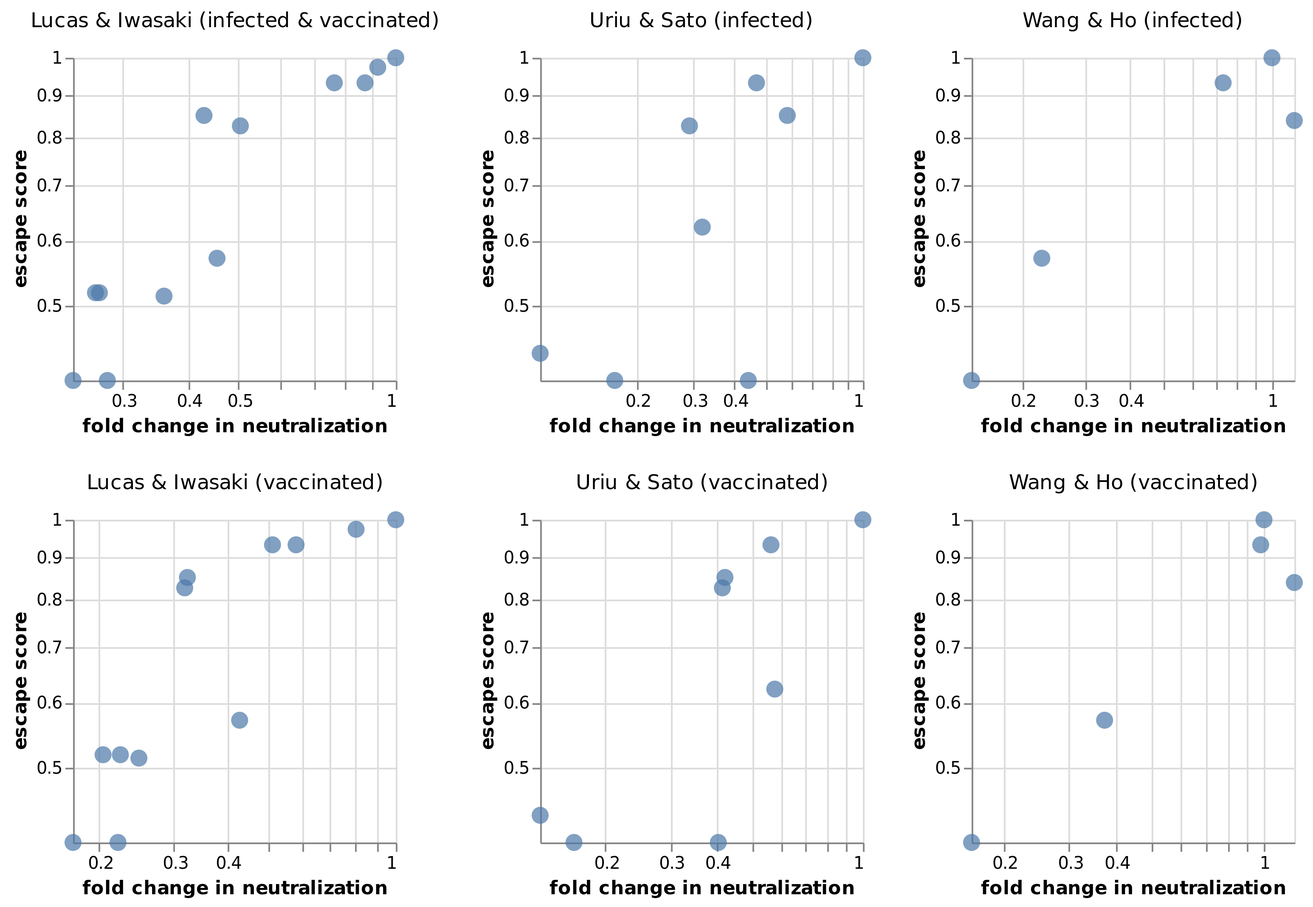
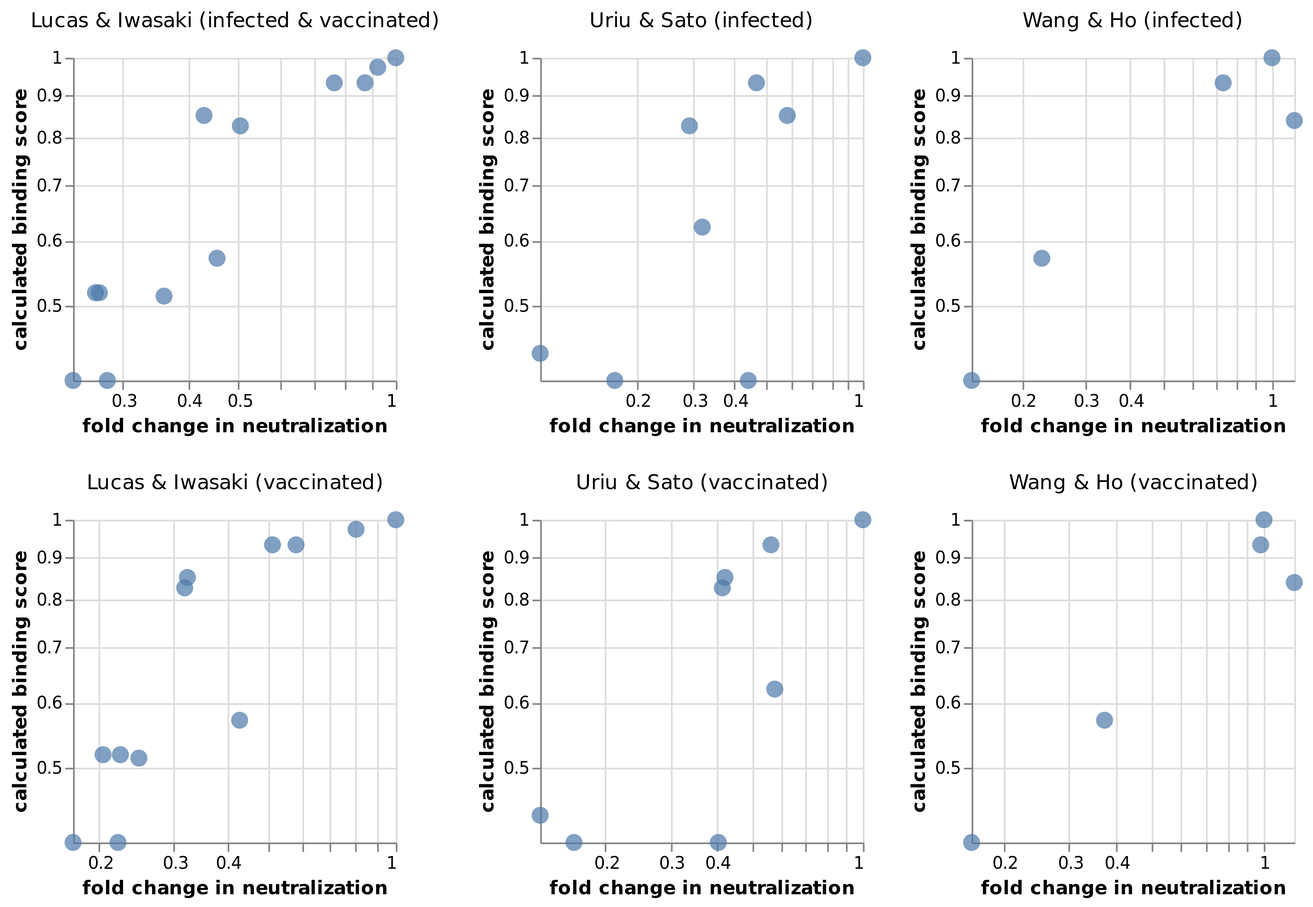
relabel to "calculated binding score"

diff --git a/results/neut_studies/neut_studies.html b/results/neut_studies/neut_studies.html
@@ -14,7 +14,7 @@
   <div id="vis"></div>
   <script>
     (function(vegaEmbed) {
-      var spec = {"config": {"view": {"continuousWidth": 400, "continuousHeight": 300}}, "data": {"name": "data-1481cc80569ba95ce21524a5e9327a6b"}, "mark": {"type": "point", "filled": true, "size": 100}, "encoding": {"facet": {"type": "nominal", "columns": 3, "field": "study_group", "header": {"labelFontSize": 12}, "sort": ["Lucas & Iwasaki (infected & vaccinated)", "Uriu & Sato (infected)", "Wang & Ho (infected)", "Lucas & Iwasaki (vaccinated)", "Uriu & Sato (vaccinated)", "Wang & Ho (vaccinated)"], "title": null}, "tooltip": [{"type": "nominal", "field": "RBD_mutations"}, {"type": "quantitative", "field": "fold_change", "format": ".2f"}, {"type": "quantitative", "field": "binding_score", "format": ".2f"}], "x": {"type": "quantitative", "axis": {"tickCount": 4}, "field": "fold_change", "scale": {"nice": false, "type": "log"}, "title": "fold change in neutralization"}, "y": {"type": "quantitative", "field": "binding_score", "scale": {"nice": false, "type": "log"}, "title": "escape score"}}, "height": 190, "resolve": {"scale": {"x": "independent", "y": "independent"}}, "width": 190, "$schema": "https://vega.github.io/schema/vega-lite/v4.8.1.json", "datasets": {"data-1481cc80569ba95ce21524a5e9327a6b": [{"study": "Lucas & Iwasaki", "group": "infected & vaccinated", "RBD_mutations": "", "n_samples": 14, "fold_change": 1.0, "sites": [], "group_first_word": "infected", "study_group": "Lucas & Iwasaki (infected & vaccinated)", "binding_score": 1.0}, {"study": "Lucas & Iwasaki", "group": "infected & vaccinated", "RBD_mutations": "E484K", "n_samples": 14, "fold_change": 0.4548633571561669, "sites": [484], "group_first_word": "infected", "study_group": "Lucas & Iwasaki (infected & vaccinated)", "binding_score": 0.5711044466018254}, {"study": "Lucas & Iwasaki", "group": "infected & vaccinated", "RBD_mutations": "E484K N501T", "n_samples": 14, "fold_change": 0.26620382149903893, "sites": [484, 501], "group_first_word": "infected", "study_group": "Lucas & Iwasaki (infected & vaccinated)", "binding_score": 0.5186239654488173}, {"study": "Lucas & Iwasaki", "group": "infected & vaccinated", "RBD_mutations": "E484K N501Y", "n_samples": 14, "fold_change": 0.27084092334440707, "sites": [484, 501], "group_first_word": "infected", "study_group": "Lucas & Iwasaki (infected & vaccinated)", "binding_score": 0.5186239654488173}, {"study": "Lucas & Iwasaki", "group": "infected & vaccinated", "RBD_mutations": "K417N E484K N501Y", "n_samples": 14, "fold_change": 0.2411491382404339, "sites": [417, 484, 501], "group_first_word": "infected", "study_group": "Lucas & Iwasaki (infected & vaccinated)", "binding_score": 0.40587052285326763}, {"study": "Lucas & Iwasaki", "group": "infected & vaccinated", "RBD_mutations": "K417T E484K N501Y", "n_samples": 14, "fold_change": 0.28049722652028164, "sites": [417, 484, 501], "group_first_word": "infected", "study_group": "Lucas & Iwasaki (infected & vaccinated)", "binding_score": 0.40587052285326763}, {"study": "Lucas & Iwasaki", "group": "infected & vaccinated", "RBD_mutations": "L452R", "n_samples": 14, "fold_change": 0.4294893320052524, "sites": [452], "group_first_word": "infected", "study_group": "Lucas & Iwasaki (infected & vaccinated)", "binding_score": 0.8510940945640929}, {"study": "Lucas & Iwasaki", "group": "infected & vaccinated", "RBD_mutations": "L452R E484Q", "n_samples": 14, "fold_change": 0.3601045190027156, "sites": [452, 484], "group_first_word": "infected", "study_group": "Lucas & Iwasaki (infected & vaccinated)", "binding_score": 0.5137603343784735}, {"study": "Lucas & Iwasaki", "group": "infected & vaccinated", "RBD_mutations": "L452R T478K", "n_samples": 14, "fold_change": 0.5041635322436606, "sites": [452, 478], "group_first_word": "infected", "study_group": "Lucas & Iwasaki (infected & vaccinated)", "binding_score": 0.8266777394809641}, {"study": "Lucas & Iwasaki", "group": "infected & vaccinated", "RBD_mutations": "N501T", "n_samples": 14, "fold_change": 0.7627059648388554, "sites": [501], "group_first_word": "infected", "study_group": "Lucas & Iwasaki (infected & vaccinated)", "binding_score": 0.932350824885985}, {"study": "Lucas & Iwasaki", "group": "infected & vaccinated", "RBD_mutations": "N501Y", "n_samples": 14, "fold_change": 0.8732585714589812, "sites": [501], "group_first_word": "infected", "study_group": "Lucas & Iwasaki (infected & vaccinated)", "binding_score": 0.932350824885985}, {"study": "Lucas & Iwasaki", "group": "infected & vaccinated", "RBD_mutations": "S477N", "n_samples": 14, "fold_change": 0.9236341884196304, "sites": [477], "group_first_word": "infected", "study_group": "Lucas & Iwasaki (infected & vaccinated)", "binding_score": 0.9737490038215707}, {"study": "Uriu & Sato", "group": "infected", "RBD_mutations": "", "n_samples": 13, "fold_change": 1.0, "sites": [], "group_first_word": "infected", "study_group": "Uriu & Sato (infected)", "binding_score": 1.0}, {"study": "Uriu & Sato", "group": "infected", "RBD_mutations": "K417N E484K N501Y", "n_samples": 13, "fold_change": 0.1714270736362724, "sites": [417, 484, 501], "group_first_word": "infected", "study_group": "Uriu & Sato (infected)", "binding_score": 0.40587052285326763}, {"study": "Uriu & Sato", "group": "infected", "RBD_mutations": "K417T E484K N501Y", "n_samples": 13, "fold_change": 0.4429494663524305, "sites": [417, 484, 501], "group_first_word": "infected", "study_group": "Uriu & Sato (infected)", "binding_score": 0.40587052285326763}, {"study": "Uriu & Sato", "group": "infected", "RBD_mutations": "L452Q F490S", "n_samples": 13, "fold_change": 0.31936945033078823, "sites": [452, 490], "group_first_word": "infected", "study_group": "Uriu & Sato (infected)", "binding_score": 0.6230022395760562}, {"study": "Uriu & Sato", "group": "infected", "RBD_mutations": "L452R", "n_samples": 13, "fold_change": 0.5843947692130965, "sites": [452], "group_first_word": "infected", "study_group": "Uriu & Sato (infected)", "binding_score": 0.8510940945640929}, {"study": "Uriu & Sato", "group": "infected", "RBD_mutations": "L452R T478K", "n_samples": 13, "fold_change": 0.29152625073313265, "sites": [452, 478], "group_first_word": "infected", "study_group": "Uriu & Sato (infected)", "binding_score": 0.8266777394809641}, {"study": "Uriu & Sato", "group": "infected", "RBD_mutations": "N501Y", "n_samples": 13, "fold_change": 0.4694329972562393, "sites": [501], "group_first_word": "infected", "study_group": "Uriu & Sato (infected)", "binding_score": 0.932350824885985}, {"study": "Uriu & Sato", "group": "infected", "RBD_mutations": "R346K E484K N501Y", "n_samples": 13, "fold_change": 0.10085759189694231, "sites": [346, 484, 501], "group_first_word": "infected", "study_group": "Uriu & Sato (infected)", "binding_score": 0.437855592501803}, {"study": "Wang & Ho", "group": "infected", "RBD_mutations": "", "n_samples": 20, "fold_change": 1.0, "sites": [], "group_first_word": "infected", "study_group": "Wang & Ho (infected)", "binding_score": 1.0}, {"study": "Wang & Ho", "group": "infected", "RBD_mutations": "E484K", "n_samples": 20, "fold_change": 0.22754875314255113, "sites": [484], "group_first_word": "infected", "study_group": "Wang & Ho (infected)", "binding_score": 0.5711044466018254}, {"study": "Wang & Ho", "group": "infected", "RBD_mutations": "K417N", "n_samples": 20, "fold_change": 1.1546806918490695, "sites": [417], "group_first_word": "infected", "study_group": "Wang & Ho (infected)", "binding_score": 0.8391455671936648}, {"study": "Wang & Ho", "group": "infected", "RBD_mutations": "K417N E484K N501Y", "n_samples": 20, "fold_change": 0.14485093824648754, "sites": [417, 484, 501], "group_first_word": "infected", "study_group": "Wang & Ho (infected)", "binding_score": 0.40587052285326763}, {"study": "Wang & Ho", "group": "infected", "RBD_mutations": "N501Y", "n_samples": 20, "fold_change": 0.7305853069035843, "sites": [501], "group_first_word": "infected", "study_group": "Wang & Ho (infected)", "binding_score": 0.932350824885985}, {"study": "Lucas & Iwasaki", "group": "vaccinated", "RBD_mutations": "", "n_samples": 16, "fold_change": 1.0, "sites": [], "group_first_word": "vaccinated", "study_group": "Lucas & Iwasaki (vaccinated)", "binding_score": 1.0}, {"study": "Lucas & Iwasaki", "group": "vaccinated", "RBD_mutations": "E484K", "n_samples": 16, "fold_change": 0.4287541466790583, "sites": [484], "group_first_word": "vaccinated", "study_group": "Lucas & Iwasaki (vaccinated)", "binding_score": 0.5711044466018254}, {"study": "Lucas & Iwasaki", "group": "vaccinated", "RBD_mutations": "E484K N501T", "n_samples": 16, "fold_change": 0.20439428571997986, "sites": [484, 501], "group_first_word": "vaccinated", "study_group": "Lucas & Iwasaki (vaccinated)", "binding_score": 0.5186239654488173}, {"study": "Lucas & Iwasaki", "group": "vaccinated", "RBD_mutations": "E484K N501Y", "n_samples": 16, "fold_change": 0.224517397789719, "sites": [484, 501], "group_first_word": "vaccinated", "study_group": "Lucas & Iwasaki (vaccinated)", "binding_score": 0.5186239654488173}, {"study": "Lucas & Iwasaki", "group": "vaccinated", "RBD_mutations": "K417N E484K N501Y", "n_samples": 16, "fold_change": 0.1736725775952108, "sites": [417, 484, 501], "group_first_word": "vaccinated", "study_group": "Lucas & Iwasaki (vaccinated)", "binding_score": 0.40587052285326763}, {"study": "Lucas & Iwasaki", "group": "vaccinated", "RBD_mutations": "K417T E484K N501Y", "n_samples": 16, "fold_change": 0.22162819017294777, "sites": [417, 484, 501], "group_first_word": "vaccinated", "study_group": "Lucas & Iwasaki (vaccinated)", "binding_score": 0.40587052285326763}, {"study": "Lucas & Iwasaki", "group": "vaccinated", "RBD_mutations": "L452R", "n_samples": 16, "fold_change": 0.32295784116067466, "sites": [452], "group_first_word": "vaccinated", "study_group": "Lucas & Iwasaki (vaccinated)", "binding_score": 0.8510940945640929}, {"study": "Lucas & Iwasaki", "group": "vaccinated", "RBD_mutations": "L452R E484Q", "n_samples": 16, "fold_change": 0.24824185049807337, "sites": [452, 484], "group_first_word": "vaccinated", "study_group": "Lucas & Iwasaki (vaccinated)", "binding_score": 0.5137603343784735}, {"study": "Lucas & Iwasaki", "group": "vaccinated", "RBD_mutations": "L452R T478K", "n_samples": 16, "fold_change": 0.31828230898649373, "sites": [452, 478], "group_first_word": "vaccinated", "study_group": "Lucas & Iwasaki (vaccinated)", "binding_score": 0.8266777394809641}, {"study": "Lucas & Iwasaki", "group": "vaccinated", "RBD_mutations": "N501T", "n_samples": 16, "fold_change": 0.5124187350092134, "sites": [501], "group_first_word": "vaccinated", "study_group": "Lucas & Iwasaki (vaccinated)", "binding_score": 0.932350824885985}, {"study": "Lucas & Iwasaki", "group": "vaccinated", "RBD_mutations": "N501Y", "n_samples": 16, "fold_change": 0.5822707846585061, "sites": [501], "group_first_word": "vaccinated", "study_group": "Lucas & Iwasaki (vaccinated)", "binding_score": 0.932350824885985}, {"study": "Lucas & Iwasaki", "group": "vaccinated", "RBD_mutations": "S477N", "n_samples": 16, "fold_change": 0.8063062013547279, "sites": [477], "group_first_word": "vaccinated", "study_group": "Lucas & Iwasaki (vaccinated)", "binding_score": 0.9737490038215707}, {"study": "Uriu & Sato", "group": "vaccinated", "RBD_mutations": "", "n_samples": 14, "fold_change": 1.0, "sites": [], "group_first_word": "vaccinated", "study_group": "Uriu & Sato (vaccinated)", "binding_score": 1.0}, {"study": "Uriu & Sato", "group": "vaccinated", "RBD_mutations": "K417N E484K N501Y", "n_samples": 14, "fold_change": 0.16449539049254566, "sites": [417, 484, 501], "group_first_word": "vaccinated", "study_group": "Uriu & Sato (vaccinated)", "binding_score": 0.40587052285326763}, {"study": "Uriu & Sato", "group": "vaccinated", "RBD_mutations": "K417T E484K N501Y", "n_samples": 14, "fold_change": 0.40523754844008375, "sites": [417, 484, 501], "group_first_word": "vaccinated", "study_group": "Uriu & Sato (vaccinated)", "binding_score": 0.40587052285326763}, {"study": "Uriu & Sato", "group": "vaccinated", "RBD_mutations": "L452Q F490S", "n_samples": 14, "fold_change": 0.5766973452387146, "sites": [452, 490], "group_first_word": "vaccinated", "study_group": "Uriu & Sato (vaccinated)", "binding_score": 0.6230022395760562}, {"study": "Uriu & Sato", "group": "vaccinated", "RBD_mutations": "L452R", "n_samples": 14, "fold_change": 0.42244904974166303, "sites": [452], "group_first_word": "vaccinated", "study_group": "Uriu & Sato (vaccinated)", "binding_score": 0.8510940945640929}, {"study": "Uriu & Sato", "group": "vaccinated", "RBD_mutations": "L452R T478K", "n_samples": 14, "fold_change": 0.4156452982168447, "sites": [452, 478], "group_first_word": "vaccinated", "study_group": "Uriu & Sato (vaccinated)", "binding_score": 0.8266777394809641}, {"study": "Uriu & Sato", "group": "vaccinated", "RBD_mutations": "N501Y", "n_samples": 14, "fold_change": 0.5631428490641058, "sites": [501], "group_first_word": "vaccinated", "study_group": "Uriu & Sato (vaccinated)", "binding_score": 0.932350824885985}, {"study": "Uriu & Sato", "group": "vaccinated", "RBD_mutations": "R346K E484K N501Y", "n_samples": 14, "fold_change": 0.1331424136479114, "sites": [346, 484, 501], "group_first_word": "vaccinated", "study_group": "Uriu & Sato (vaccinated)", "binding_score": 0.437855592501803}, {"study": "Wang & Ho", "group": "vaccinated", "RBD_mutations": "", "n_samples": 20, "fold_change": 1.0, "sites": [], "group_first_word": "vaccinated", "study_group": "Wang & Ho (vaccinated)", "binding_score": 1.0}, {"study": "Wang & Ho", "group": "vaccinated", "RBD_mutations": "E484K", "n_samples": 20, "fold_change": 0.37363140400071243, "sites": [484], "group_first_word": "vaccinated", "study_group": "Wang & Ho (vaccinated)", "binding_score": 0.5711044466018254}, {"study": "Wang & Ho", "group": "vaccinated", "RBD_mutations": "K417N", "n_samples": 20, "fold_change": 1.205903407091004, "sites": [417], "group_first_word": "vaccinated", "study_group": "Wang & Ho (vaccinated)", "binding_score": 0.8391455671936648}, {"study": "Wang & Ho", "group": "vaccinated", "RBD_mutations": "K417N E484K N501Y", "n_samples": 20, "fold_change": 0.16433703774628375, "sites": [417, 484, 501], "group_first_word": "vaccinated", "study_group": "Wang & Ho (vaccinated)", "binding_score": 0.40587052285326763}, {"study": "Wang & Ho", "group": "vaccinated", "RBD_mutations": "N501Y", "n_samples": 20, "fold_change": 0.9799509317677993, "sites": [501], "group_first_word": "vaccinated", "study_group": "Wang & Ho (vaccinated)", "binding_score": 0.932350824885985}]}};
+      var spec = {"config": {"view": {"continuousWidth": 400, "continuousHeight": 300}}, "data": {"name": "data-1481cc80569ba95ce21524a5e9327a6b"}, "mark": {"type": "point", "filled": true, "size": 100}, "encoding": {"facet": {"type": "nominal", "columns": 3, "field": "study_group", "header": {"labelFontSize": 12}, "sort": ["Lucas & Iwasaki (infected & vaccinated)", "Uriu & Sato (infected)", "Wang & Ho (infected)", "Lucas & Iwasaki (vaccinated)", "Uriu & Sato (vaccinated)", "Wang & Ho (vaccinated)"], "title": null}, "tooltip": [{"type": "nominal", "field": "RBD_mutations"}, {"type": "quantitative", "field": "fold_change", "format": ".2f"}, {"type": "quantitative", "field": "binding_score", "format": ".2f"}], "x": {"type": "quantitative", "axis": {"tickCount": 4}, "field": "fold_change", "scale": {"nice": false, "type": "log"}, "title": "fold change in neutralization"}, "y": {"type": "quantitative", "field": "binding_score", "scale": {"nice": false, "type": "log"}, "title": "calculated binding score"}}, "height": 190, "resolve": {"scale": {"x": "independent", "y": "independent"}}, "width": 190, "$schema": "https://vega.github.io/schema/vega-lite/v4.8.1.json", "datasets": {"data-1481cc80569ba95ce21524a5e9327a6b": [{"study": "Lucas & Iwasaki", "group": "infected & vaccinated", "RBD_mutations": "", "n_samples": 14, "fold_change": 1.0, "sites": [], "group_first_word": "infected", "study_group": "Lucas & Iwasaki (infected & vaccinated)", "binding_score": 1.0}, {"study": "Lucas & Iwasaki", "group": "infected & vaccinated", "RBD_mutations": "E484K", "n_samples": 14, "fold_change": 0.4548633571561669, "sites": [484], "group_first_word": "infected", "study_group": "Lucas & Iwasaki (infected & vaccinated)", "binding_score": 0.5711044466018254}, {"study": "Lucas & Iwasaki", "group": "infected & vaccinated", "RBD_mutations": "E484K N501T", "n_samples": 14, "fold_change": 0.26620382149903893, "sites": [484, 501], "group_first_word": "infected", "study_group": "Lucas & Iwasaki (infected & vaccinated)", "binding_score": 0.5186239654488173}, {"study": "Lucas & Iwasaki", "group": "infected & vaccinated", "RBD_mutations": "E484K N501Y", "n_samples": 14, "fold_change": 0.27084092334440707, "sites": [484, 501], "group_first_word": "infected", "study_group": "Lucas & Iwasaki (infected & vaccinated)", "binding_score": 0.5186239654488173}, {"study": "Lucas & Iwasaki", "group": "infected & vaccinated", "RBD_mutations": "K417N E484K N501Y", "n_samples": 14, "fold_change": 0.2411491382404339, "sites": [417, 484, 501], "group_first_word": "infected", "study_group": "Lucas & Iwasaki (infected & vaccinated)", "binding_score": 0.40587052285326763}, {"study": "Lucas & Iwasaki", "group": "infected & vaccinated", "RBD_mutations": "K417T E484K N501Y", "n_samples": 14, "fold_change": 0.28049722652028164, "sites": [417, 484, 501], "group_first_word": "infected", "study_group": "Lucas & Iwasaki (infected & vaccinated)", "binding_score": 0.40587052285326763}, {"study": "Lucas & Iwasaki", "group": "infected & vaccinated", "RBD_mutations": "L452R", "n_samples": 14, "fold_change": 0.4294893320052524, "sites": [452], "group_first_word": "infected", "study_group": "Lucas & Iwasaki (infected & vaccinated)", "binding_score": 0.8510940945640929}, {"study": "Lucas & Iwasaki", "group": "infected & vaccinated", "RBD_mutations": "L452R E484Q", "n_samples": 14, "fold_change": 0.3601045190027156, "sites": [452, 484], "group_first_word": "infected", "study_group": "Lucas & Iwasaki (infected & vaccinated)", "binding_score": 0.5137603343784735}, {"study": "Lucas & Iwasaki", "group": "infected & vaccinated", "RBD_mutations": "L452R T478K", "n_samples": 14, "fold_change": 0.5041635322436606, "sites": [452, 478], "group_first_word": "infected", "study_group": "Lucas & Iwasaki (infected & vaccinated)", "binding_score": 0.8266777394809641}, {"study": "Lucas & Iwasaki", "group": "infected & vaccinated", "RBD_mutations": "N501T", "n_samples": 14, "fold_change": 0.7627059648388554, "sites": [501], "group_first_word": "infected", "study_group": "Lucas & Iwasaki (infected & vaccinated)", "binding_score": 0.932350824885985}, {"study": "Lucas & Iwasaki", "group": "infected & vaccinated", "RBD_mutations": "N501Y", "n_samples": 14, "fold_change": 0.8732585714589812, "sites": [501], "group_first_word": "infected", "study_group": "Lucas & Iwasaki (infected & vaccinated)", "binding_score": 0.932350824885985}, {"study": "Lucas & Iwasaki", "group": "infected & vaccinated", "RBD_mutations": "S477N", "n_samples": 14, "fold_change": 0.9236341884196304, "sites": [477], "group_first_word": "infected", "study_group": "Lucas & Iwasaki (infected & vaccinated)", "binding_score": 0.9737490038215707}, {"study": "Uriu & Sato", "group": "infected", "RBD_mutations": "", "n_samples": 13, "fold_change": 1.0, "sites": [], "group_first_word": "infected", "study_group": "Uriu & Sato (infected)", "binding_score": 1.0}, {"study": "Uriu & Sato", "group": "infected", "RBD_mutations": "K417N E484K N501Y", "n_samples": 13, "fold_change": 0.1714270736362724, "sites": [417, 484, 501], "group_first_word": "infected", "study_group": "Uriu & Sato (infected)", "binding_score": 0.40587052285326763}, {"study": "Uriu & Sato", "group": "infected", "RBD_mutations": "K417T E484K N501Y", "n_samples": 13, "fold_change": 0.4429494663524305, "sites": [417, 484, 501], "group_first_word": "infected", "study_group": "Uriu & Sato (infected)", "binding_score": 0.40587052285326763}, {"study": "Uriu & Sato", "group": "infected", "RBD_mutations": "L452Q F490S", "n_samples": 13, "fold_change": 0.31936945033078823, "sites": [452, 490], "group_first_word": "infected", "study_group": "Uriu & Sato (infected)", "binding_score": 0.6230022395760562}, {"study": "Uriu & Sato", "group": "infected", "RBD_mutations": "L452R", "n_samples": 13, "fold_change": 0.5843947692130965, "sites": [452], "group_first_word": "infected", "study_group": "Uriu & Sato (infected)", "binding_score": 0.8510940945640929}, {"study": "Uriu & Sato", "group": "infected", "RBD_mutations": "L452R T478K", "n_samples": 13, "fold_change": 0.29152625073313265, "sites": [452, 478], "group_first_word": "infected", "study_group": "Uriu & Sato (infected)", "binding_score": 0.8266777394809641}, {"study": "Uriu & Sato", "group": "infected", "RBD_mutations": "N501Y", "n_samples": 13, "fold_change": 0.4694329972562393, "sites": [501], "group_first_word": "infected", "study_group": "Uriu & Sato (infected)", "binding_score": 0.932350824885985}, {"study": "Uriu & Sato", "group": "infected", "RBD_mutations": "R346K E484K N501Y", "n_samples": 13, "fold_change": 0.10085759189694231, "sites": [346, 484, 501], "group_first_word": "infected", "study_group": "Uriu & Sato (infected)", "binding_score": 0.437855592501803}, {"study": "Wang & Ho", "group": "infected", "RBD_mutations": "", "n_samples": 20, "fold_change": 1.0, "sites": [], "group_first_word": "infected", "study_group": "Wang & Ho (infected)", "binding_score": 1.0}, {"study": "Wang & Ho", "group": "infected", "RBD_mutations": "E484K", "n_samples": 20, "fold_change": 0.22754875314255113, "sites": [484], "group_first_word": "infected", "study_group": "Wang & Ho (infected)", "binding_score": 0.5711044466018254}, {"study": "Wang & Ho", "group": "infected", "RBD_mutations": "K417N", "n_samples": 20, "fold_change": 1.1546806918490695, "sites": [417], "group_first_word": "infected", "study_group": "Wang & Ho (infected)", "binding_score": 0.8391455671936648}, {"study": "Wang & Ho", "group": "infected", "RBD_mutations": "K417N E484K N501Y", "n_samples": 20, "fold_change": 0.14485093824648754, "sites": [417, 484, 501], "group_first_word": "infected", "study_group": "Wang & Ho (infected)", "binding_score": 0.40587052285326763}, {"study": "Wang & Ho", "group": "infected", "RBD_mutations": "N501Y", "n_samples": 20, "fold_change": 0.7305853069035843, "sites": [501], "group_first_word": "infected", "study_group": "Wang & Ho (infected)", "binding_score": 0.932350824885985}, {"study": "Lucas & Iwasaki", "group": "vaccinated", "RBD_mutations": "", "n_samples": 16, "fold_change": 1.0, "sites": [], "group_first_word": "vaccinated", "study_group": "Lucas & Iwasaki (vaccinated)", "binding_score": 1.0}, {"study": "Lucas & Iwasaki", "group": "vaccinated", "RBD_mutations": "E484K", "n_samples": 16, "fold_change": 0.4287541466790583, "sites": [484], "group_first_word": "vaccinated", "study_group": "Lucas & Iwasaki (vaccinated)", "binding_score": 0.5711044466018254}, {"study": "Lucas & Iwasaki", "group": "vaccinated", "RBD_mutations": "E484K N501T", "n_samples": 16, "fold_change": 0.20439428571997986, "sites": [484, 501], "group_first_word": "vaccinated", "study_group": "Lucas & Iwasaki (vaccinated)", "binding_score": 0.5186239654488173}, {"study": "Lucas & Iwasaki", "group": "vaccinated", "RBD_mutations": "E484K N501Y", "n_samples": 16, "fold_change": 0.224517397789719, "sites": [484, 501], "group_first_word": "vaccinated", "study_group": "Lucas & Iwasaki (vaccinated)", "binding_score": 0.5186239654488173}, {"study": "Lucas & Iwasaki", "group": "vaccinated", "RBD_mutations": "K417N E484K N501Y", "n_samples": 16, "fold_change": 0.1736725775952108, "sites": [417, 484, 501], "group_first_word": "vaccinated", "study_group": "Lucas & Iwasaki (vaccinated)", "binding_score": 0.40587052285326763}, {"study": "Lucas & Iwasaki", "group": "vaccinated", "RBD_mutations": "K417T E484K N501Y", "n_samples": 16, "fold_change": 0.22162819017294777, "sites": [417, 484, 501], "group_first_word": "vaccinated", "study_group": "Lucas & Iwasaki (vaccinated)", "binding_score": 0.40587052285326763}, {"study": "Lucas & Iwasaki", "group": "vaccinated", "RBD_mutations": "L452R", "n_samples": 16, "fold_change": 0.32295784116067466, "sites": [452], "group_first_word": "vaccinated", "study_group": "Lucas & Iwasaki (vaccinated)", "binding_score": 0.8510940945640929}, {"study": "Lucas & Iwasaki", "group": "vaccinated", "RBD_mutations": "L452R E484Q", "n_samples": 16, "fold_change": 0.24824185049807337, "sites": [452, 484], "group_first_word": "vaccinated", "study_group": "Lucas & Iwasaki (vaccinated)", "binding_score": 0.5137603343784735}, {"study": "Lucas & Iwasaki", "group": "vaccinated", "RBD_mutations": "L452R T478K", "n_samples": 16, "fold_change": 0.31828230898649373, "sites": [452, 478], "group_first_word": "vaccinated", "study_group": "Lucas & Iwasaki (vaccinated)", "binding_score": 0.8266777394809641}, {"study": "Lucas & Iwasaki", "group": "vaccinated", "RBD_mutations": "N501T", "n_samples": 16, "fold_change": 0.5124187350092134, "sites": [501], "group_first_word": "vaccinated", "study_group": "Lucas & Iwasaki (vaccinated)", "binding_score": 0.932350824885985}, {"study": "Lucas & Iwasaki", "group": "vaccinated", "RBD_mutations": "N501Y", "n_samples": 16, "fold_change": 0.5822707846585061, "sites": [501], "group_first_word": "vaccinated", "study_group": "Lucas & Iwasaki (vaccinated)", "binding_score": 0.932350824885985}, {"study": "Lucas & Iwasaki", "group": "vaccinated", "RBD_mutations": "S477N", "n_samples": 16, "fold_change": 0.8063062013547279, "sites": [477], "group_first_word": "vaccinated", "study_group": "Lucas & Iwasaki (vaccinated)", "binding_score": 0.9737490038215707}, {"study": "Uriu & Sato", "group": "vaccinated", "RBD_mutations": "", "n_samples": 14, "fold_change": 1.0, "sites": [], "group_first_word": "vaccinated", "study_group": "Uriu & Sato (vaccinated)", "binding_score": 1.0}, {"study": "Uriu & Sato", "group": "vaccinated", "RBD_mutations": "K417N E484K N501Y", "n_samples": 14, "fold_change": 0.16449539049254566, "sites": [417, 484, 501], "group_first_word": "vaccinated", "study_group": "Uriu & Sato (vaccinated)", "binding_score": 0.40587052285326763}, {"study": "Uriu & Sato", "group": "vaccinated", "RBD_mutations": "K417T E484K N501Y", "n_samples": 14, "fold_change": 0.40523754844008375, "sites": [417, 484, 501], "group_first_word": "vaccinated", "study_group": "Uriu & Sato (vaccinated)", "binding_score": 0.40587052285326763}, {"study": "Uriu & Sato", "group": "vaccinated", "RBD_mutations": "L452Q F490S", "n_samples": 14, "fold_change": 0.5766973452387146, "sites": [452, 490], "group_first_word": "vaccinated", "study_group": "Uriu & Sato (vaccinated)", "binding_score": 0.6230022395760562}, {"study": "Uriu & Sato", "group": "vaccinated", "RBD_mutations": "L452R", "n_samples": 14, "fold_change": 0.42244904974166303, "sites": [452], "group_first_word": "vaccinated", "study_group": "Uriu & Sato (vaccinated)", "binding_score": 0.8510940945640929}, {"study": "Uriu & Sato", "group": "vaccinated", "RBD_mutations": "L452R T478K", "n_samples": 14, "fold_change": 0.4156452982168447, "sites": [452, 478], "group_first_word": "vaccinated", "study_group": "Uriu & Sato (vaccinated)", "binding_score": 0.8266777394809641}, {"study": "Uriu & Sato", "group": "vaccinated", "RBD_mutations": "N501Y", "n_samples": 14, "fold_change": 0.5631428490641058, "sites": [501], "group_first_word": "vaccinated", "study_group": "Uriu & Sato (vaccinated)", "binding_score": 0.932350824885985}, {"study": "Uriu & Sato", "group": "vaccinated", "RBD_mutations": "R346K E484K N501Y", "n_samples": 14, "fold_change": 0.1331424136479114, "sites": [346, 484, 501], "group_first_word": "vaccinated", "study_group": "Uriu & Sato (vaccinated)", "binding_score": 0.437855592501803}, {"study": "Wang & Ho", "group": "vaccinated", "RBD_mutations": "", "n_samples": 20, "fold_change": 1.0, "sites": [], "group_first_word": "vaccinated", "study_group": "Wang & Ho (vaccinated)", "binding_score": 1.0}, {"study": "Wang & Ho", "group": "vaccinated", "RBD_mutations": "E484K", "n_samples": 20, "fold_change": 0.37363140400071243, "sites": [484], "group_first_word": "vaccinated", "study_group": "Wang & Ho (vaccinated)", "binding_score": 0.5711044466018254}, {"study": "Wang & Ho", "group": "vaccinated", "RBD_mutations": "K417N", "n_samples": 20, "fold_change": 1.205903407091004, "sites": [417], "group_first_word": "vaccinated", "study_group": "Wang & Ho (vaccinated)", "binding_score": 0.8391455671936648}, {"study": "Wang & Ho", "group": "vaccinated", "RBD_mutations": "K417N E484K N501Y", "n_samples": 20, "fold_change": 0.16433703774628375, "sites": [417, 484, 501], "group_first_word": "vaccinated", "study_group": "Wang & Ho (vaccinated)", "binding_score": 0.40587052285326763}, {"study": "Wang & Ho", "group": "vaccinated", "RBD_mutations": "N501Y", "n_samples": 20, "fold_change": 0.9799509317677993, "sites": [501], "group_first_word": "vaccinated", "study_group": "Wang & Ho (vaccinated)", "binding_score": 0.932350824885985}]}};
       var embedOpt = {"mode": "vega-lite"};
 
       function showError(el, error){

diff --git a/results/variants/variants.html b/results/variants/variants.html
@@ -14,7 +14,7 @@
   <div id="vis"></div>
   <script>
     (function(vegaEmbed) {
-      var spec = {"config": {"view": {"continuousWidth": 400, "continuousHeight": 300}}, "data": {"name": "data-387f3da8f753e3933b4195b69e043e67"}, "mark": {"type": "point", "filled": true, "size": 70}, "encoding": {"tooltip": [{"type": "nominal", "field": "variant"}, {"type": "nominal", "field": "mutated RBD sites"}, {"type": "quantitative", "field": "escape score", "format": ".2f"}], "x": {"type": "nominal", "field": "variant", "sort": ["Wuhan-Hu-1", "Alpha", "Delta", "Lambda", "Mu", "Beta", "Gamma", "Omicron", "PMS20"]}, "y": {"type": "quantitative", "field": "escape score", "scale": {"domain": [0.16268617395012858, 1.0], "nice": false, "type": "log"}}}, "height": 200, "width": 150, "$schema": "https://vega.github.io/schema/vega-lite/v4.8.1.json", "datasets": {"data-387f3da8f753e3933b4195b69e043e67": [{"variant": "Wuhan-Hu-1", "mutated RBD sites": "", "mut_list": [], "escape score": 1.0}, {"variant": "Alpha", "mutated RBD sites": "501", "mut_list": [501], "escape score": 0.932350824885985}, {"variant": "Beta", "mutated RBD sites": "417 484 501", "mut_list": [417, 484, 501], "escape score": 0.40587052285326763}, {"variant": "Gamma", "mutated RBD sites": "417 484 501", "mut_list": [417, 484, 501], "escape score": 0.40587052285326763}, {"variant": "Delta", "mutated RBD sites": "452 478", "mut_list": [452, 478], "escape score": 0.8266777394809641}, {"variant": "Lambda", "mutated RBD sites": "452 490", "mut_list": [452, 490], "escape score": 0.6230022395760562}, {"variant": "Mu", "mutated RBD sites": "346 484 501", "mut_list": [346, 484, 501], "escape score": 0.437855592501803}, {"variant": "Omicron", "mutated RBD sites": "339 371 373 375 417 440 446 477 478 484 493 496 498 501 505", "mut_list": [339, 371, 373, 375, 417, 440, 446, 477, 478, 484, 493, 496, 498, 501, 505], "escape score": 0.20066988947524164}, {"variant": "PMS20", "mutated RBD sites": "346 417 440 445 455 475 484 501", "mut_list": [346, 417, 440, 445, 455, 475, 484, 501], "escape score": 0.19139549876485715}]}};
+      var spec = {"config": {"view": {"continuousWidth": 400, "continuousHeight": 300}}, "data": {"name": "data-cbe714bc495207829d85148314183fae"}, "mark": {"type": "point", "filled": true, "size": 70}, "encoding": {"tooltip": [{"type": "nominal", "field": "variant"}, {"type": "nominal", "field": "mutated RBD sites"}, {"type": "quantitative", "field": "calculated binding score", "format": ".2f"}], "x": {"type": "nominal", "field": "variant", "sort": ["Wuhan-Hu-1", "Alpha", "Delta", "Lambda", "Mu", "Beta", "Gamma", "Omicron", "PMS20"]}, "y": {"type": "quantitative", "field": "calculated binding score", "scale": {"domain": [0.16268617395012858, 1.0], "nice": false, "type": "log"}}}, "height": 200, "width": 150, "$schema": "https://vega.github.io/schema/vega-lite/v4.8.1.json", "datasets": {"data-cbe714bc495207829d85148314183fae": [{"variant": "Wuhan-Hu-1", "mutated RBD sites": "", "mut_list": [], "calculated binding score": 1.0}, {"variant": "Alpha", "mutated RBD sites": "501", "mut_list": [501], "calculated binding score": 0.932350824885985}, {"variant": "Beta", "mutated RBD sites": "417 484 501", "mut_list": [417, 484, 501], "calculated binding score": 0.40587052285326763}, {"variant": "Gamma", "mutated RBD sites": "417 484 501", "mut_list": [417, 484, 501], "calculated binding score": 0.40587052285326763}, {"variant": "Delta", "mutated RBD sites": "452 478", "mut_list": [452, 478], "calculated binding score": 0.8266777394809641}, {"variant": "Lambda", "mutated RBD sites": "452 490", "mut_list": [452, 490], "calculated binding score": 0.6230022395760562}, {"variant": "Mu", "mutated RBD sites": "346 484 501", "mut_list": [346, 484, 501], "calculated binding score": 0.437855592501803}, {"variant": "Omicron", "mutated RBD sites": "339 371 373 375 417 440 446 477 478 484 493 496 498 501 505", "mut_list": [339, 371, 373, 375, 417, 440, 446, 477, 478, 484, 493, 496, 498, 501, 505], "calculated binding score": 0.20066988947524164}, {"variant": "PMS20", "mutated RBD sites": "346 417 440 445 455 475 484 501", "mut_list": [346, 417, 440, 445, 455, 475, 484, 501], "calculated binding score": 0.19139549876485715}]}};
       var embedOpt = {"mode": "vega-lite"};
 
       function showError(el, error){
